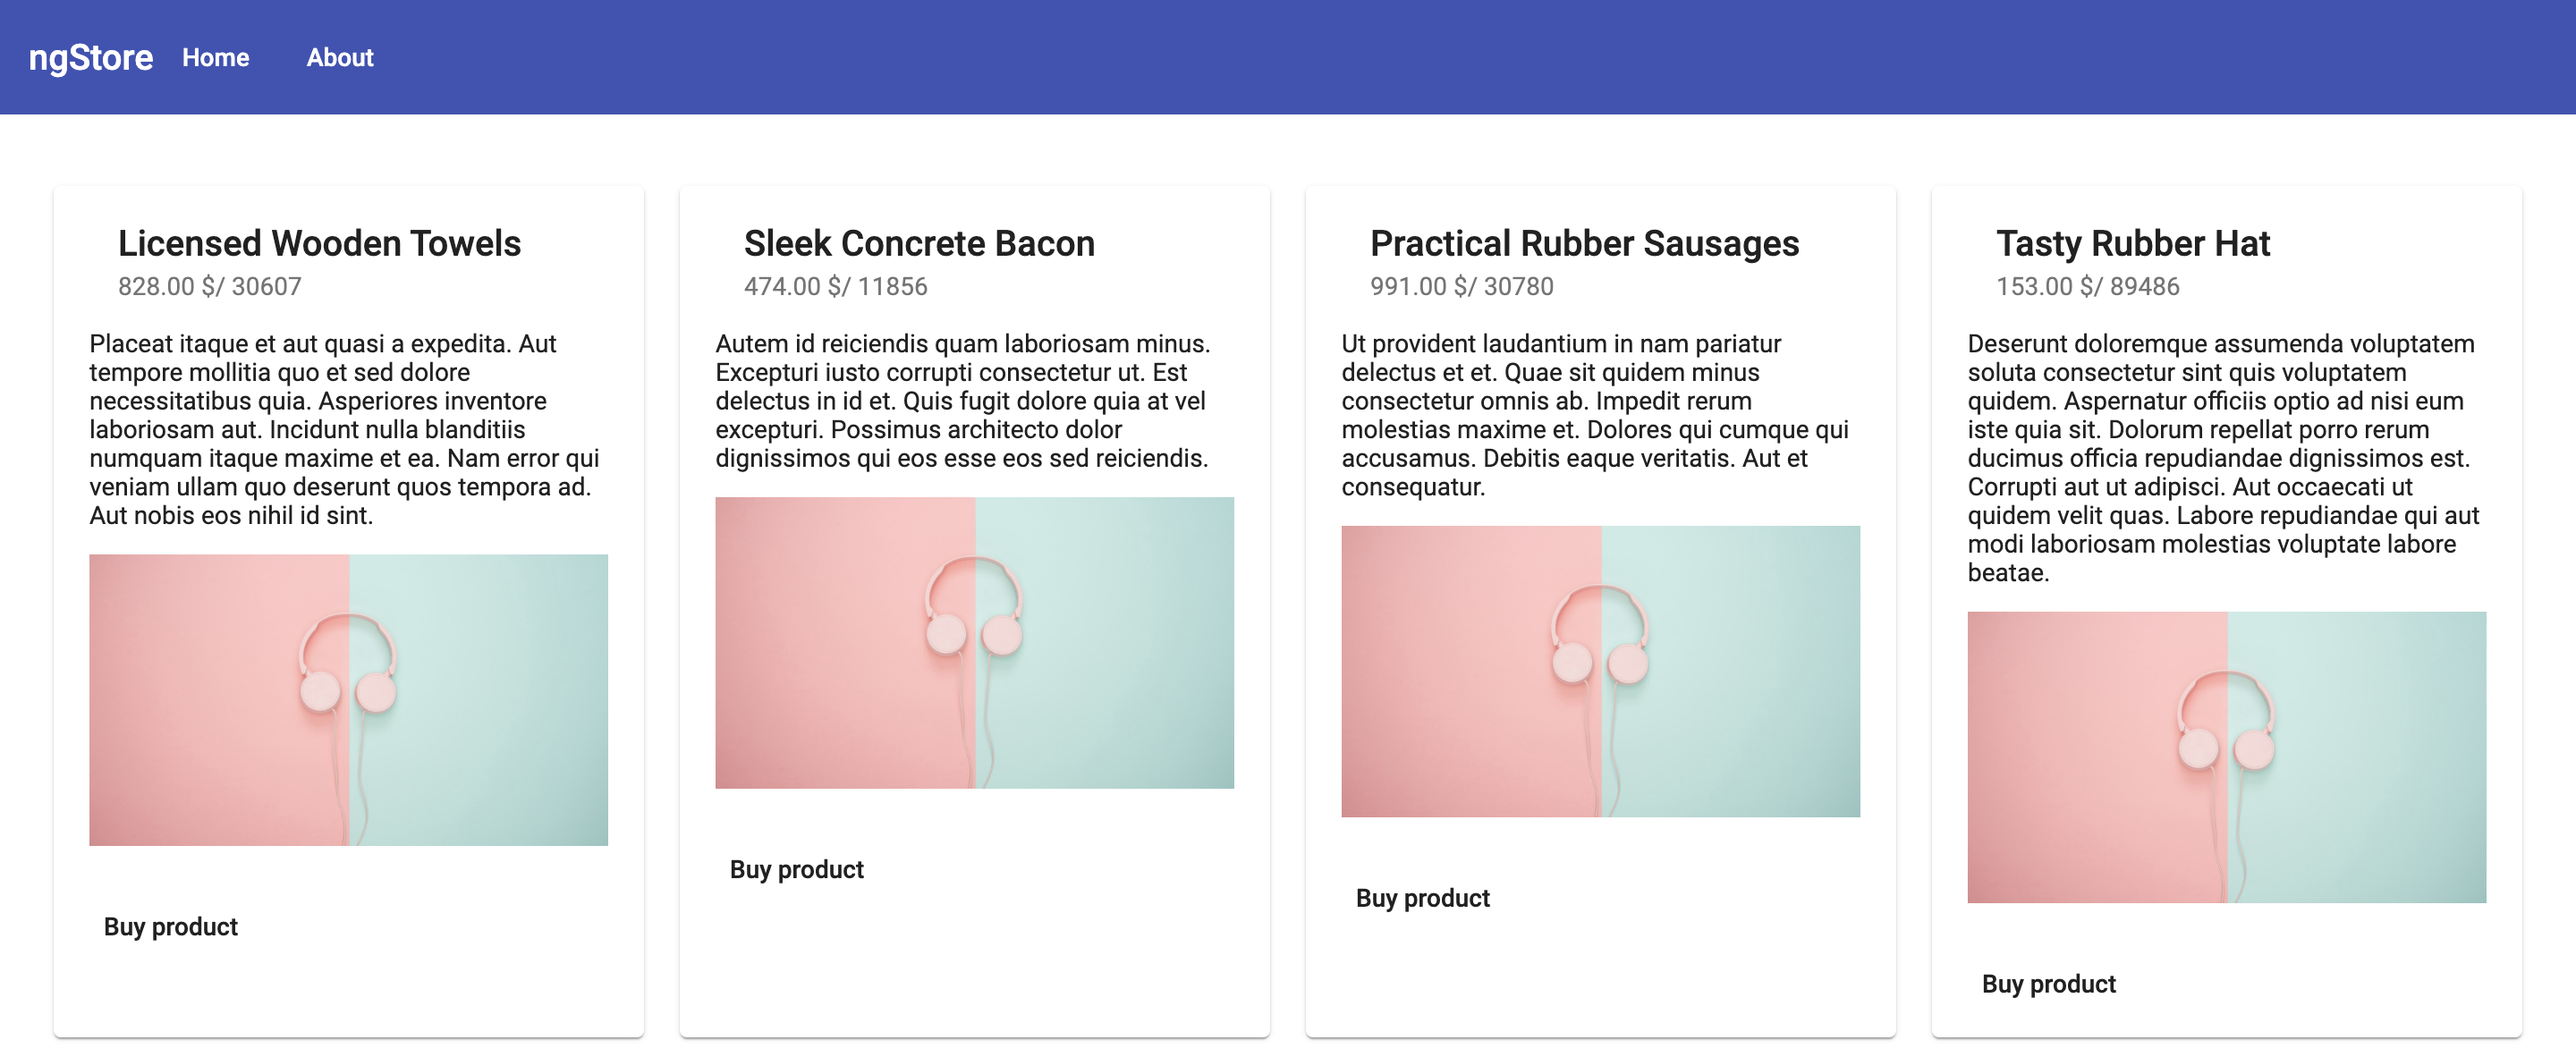
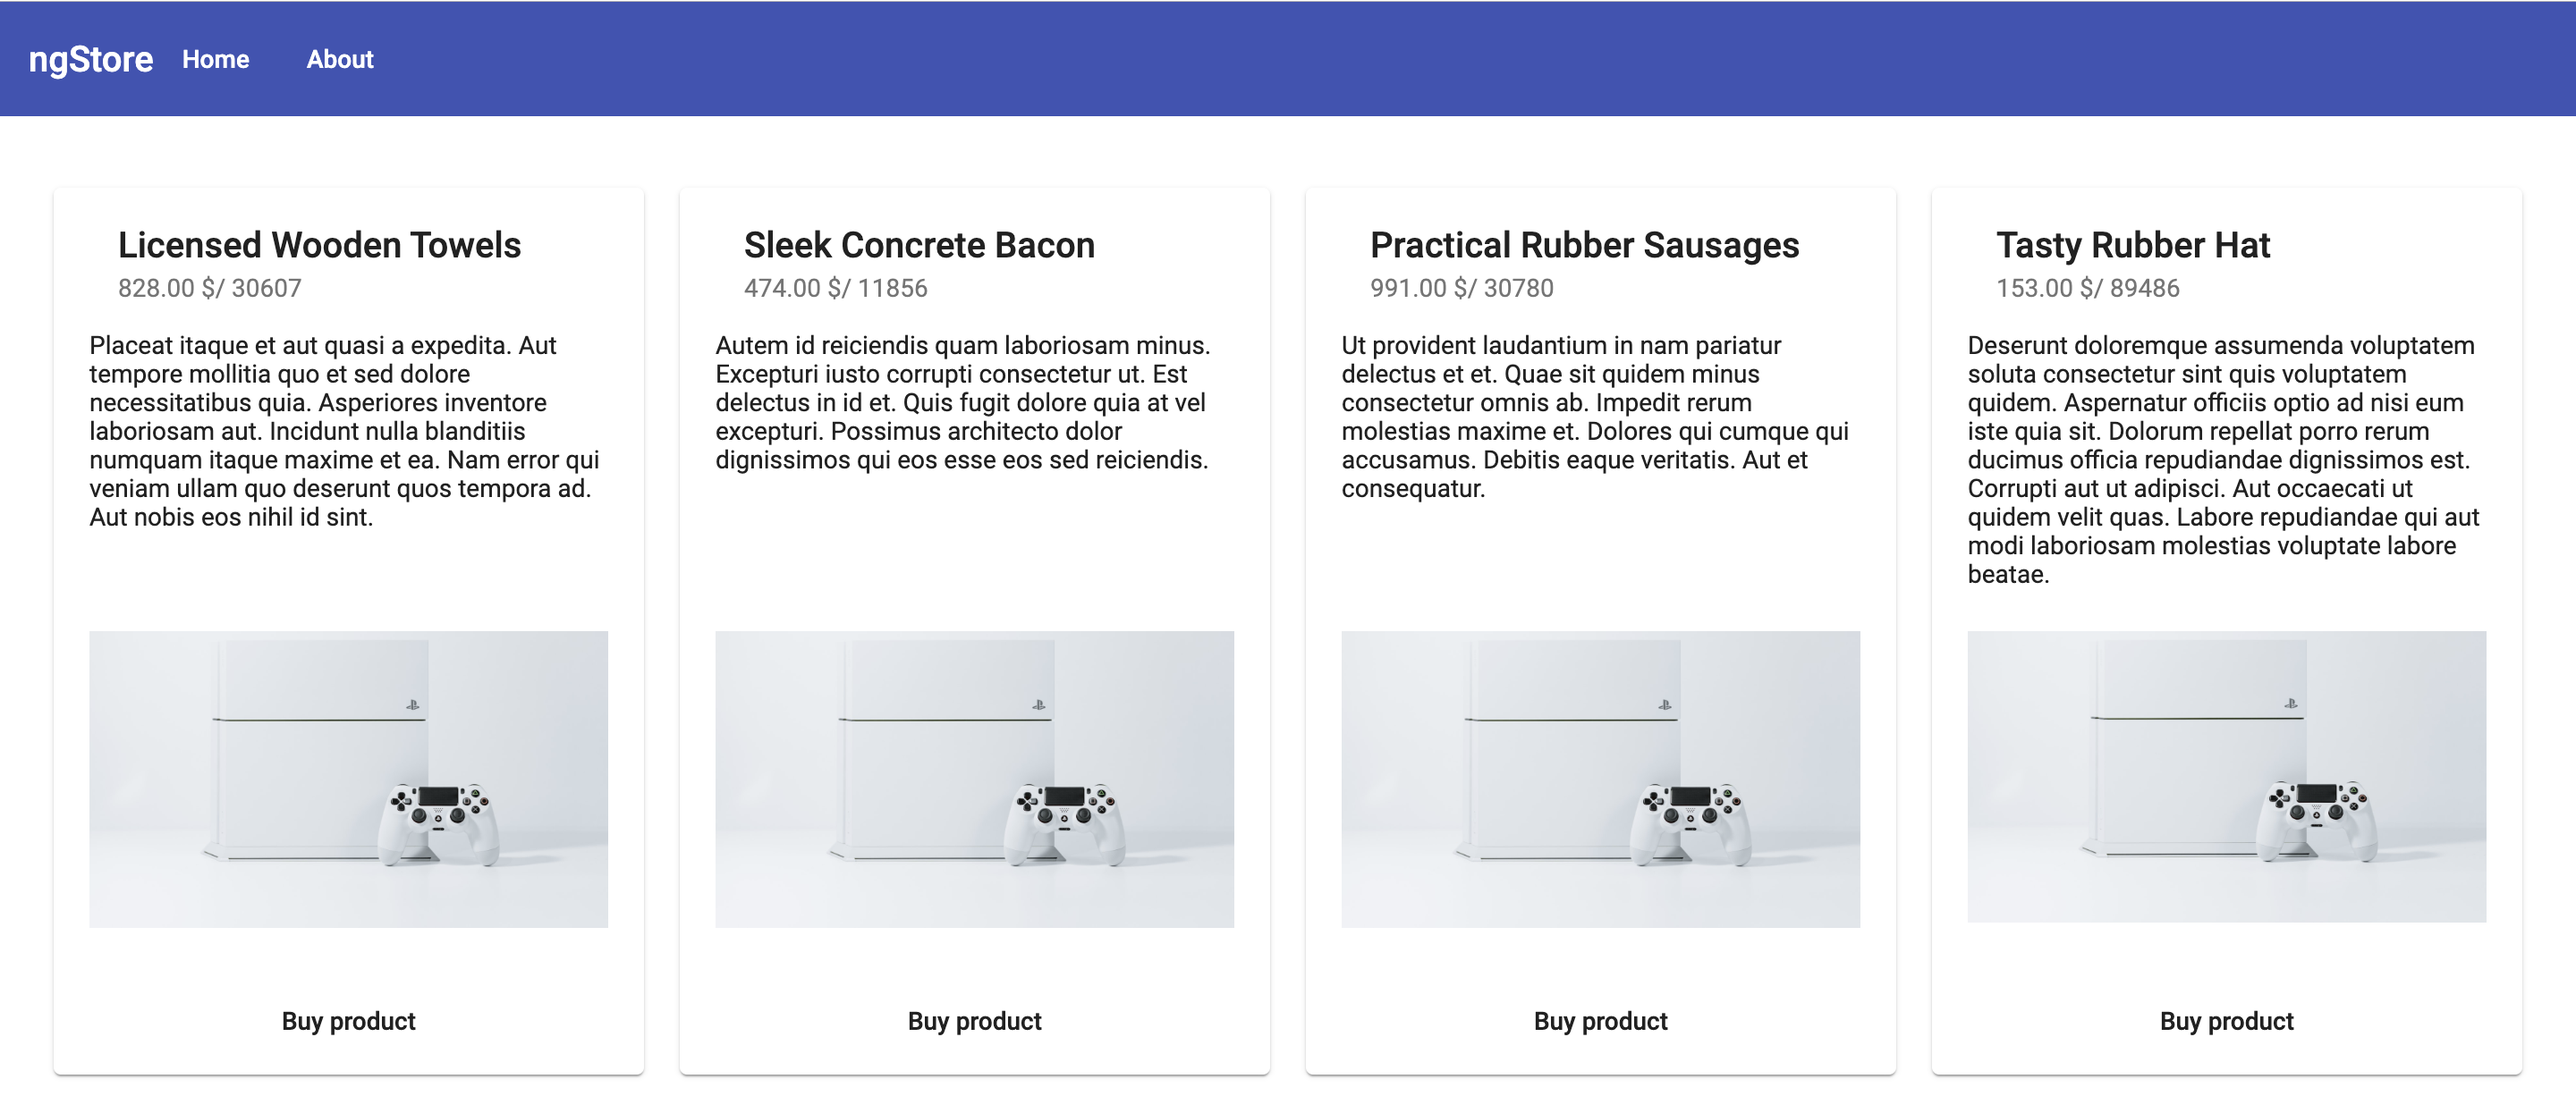
change styles for home component

diff --git a/src/app/home/home.component.html b/src/app/home/home.component.html
@@ -8,13 +8,15 @@
         <mat-card-subtitle>{{product.price}} $/ {{product.quantity}}
         </mat-card-subtitle>
       </mat-card-header>
-      <mat-card-content>
+      <mat-card-content class="product-card-content">
         <p>
           {{product.description}}
         </p>
-        <img style="height:100%; width: 100%;" src="{{ product.imageUrl }}" />
+        <div class="btn-wrap">
+          <img style="height:100%; width: 100%;" src="{{ product.imageUrl }}" />
+        </div>
       </mat-card-content>
-      <mat-card-actions>
+      <mat-card-actions class="btn-wrap">
         <button mat-button> Buy product</button>
       </mat-card-actions>
     </mat-card>

diff --git a/src/app/home/home.component.css b/src/app/home/home.component.css
@@ -8,9 +8,13 @@
 }
 
 .products-wrap .product-card {
+  display: flex;
+  flex-direction: column;
+  justify-content: space-between;
   width: calc(25% - 55px);
   margin: 10px;
   padding: 20px;
+
 }
 
 .products-wrap .product-card:nth-child(4n-3) {
@@ -22,4 +26,23 @@
 
 button {
   margin: 20px;
+}
+
+.product-card-content {
+  display: flex;
+  flex-grow: 2;
+  justify-content: space-between;
+  flex-direction: column;
+}
+
+.product-img {
+  object-fit: cover;
+  width: 100%;
+  height: 100%;
+}
+
+.btn-wrap {
+  margin-top: 10px;
+  margin-bottom: 10px;
+  text-align: center;
 }
